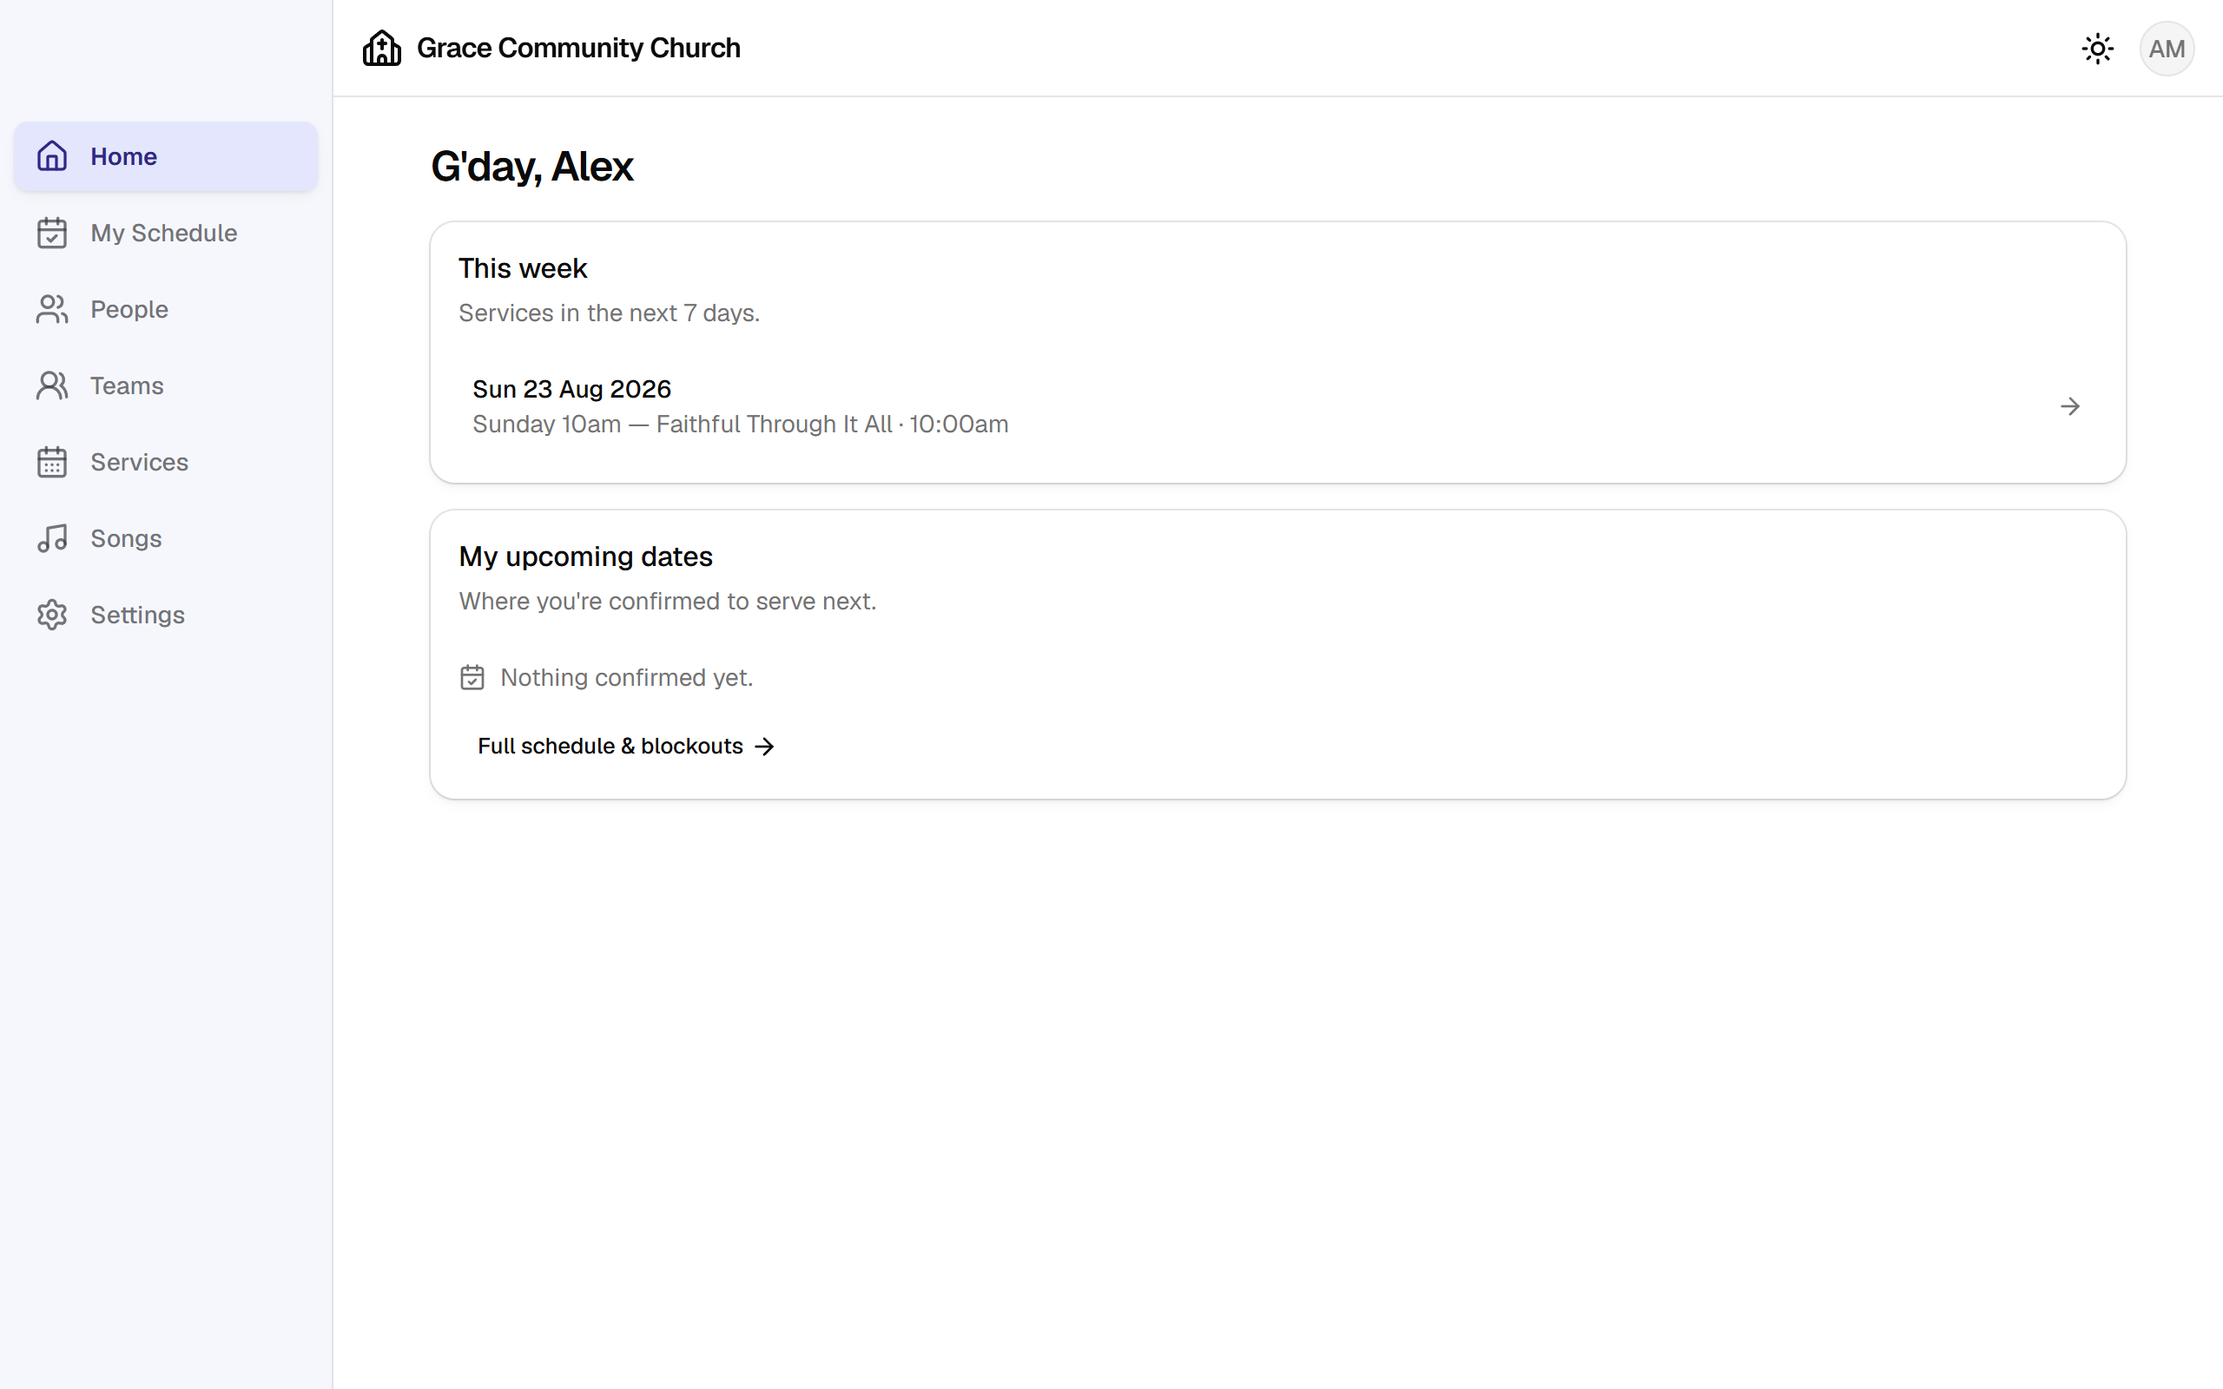
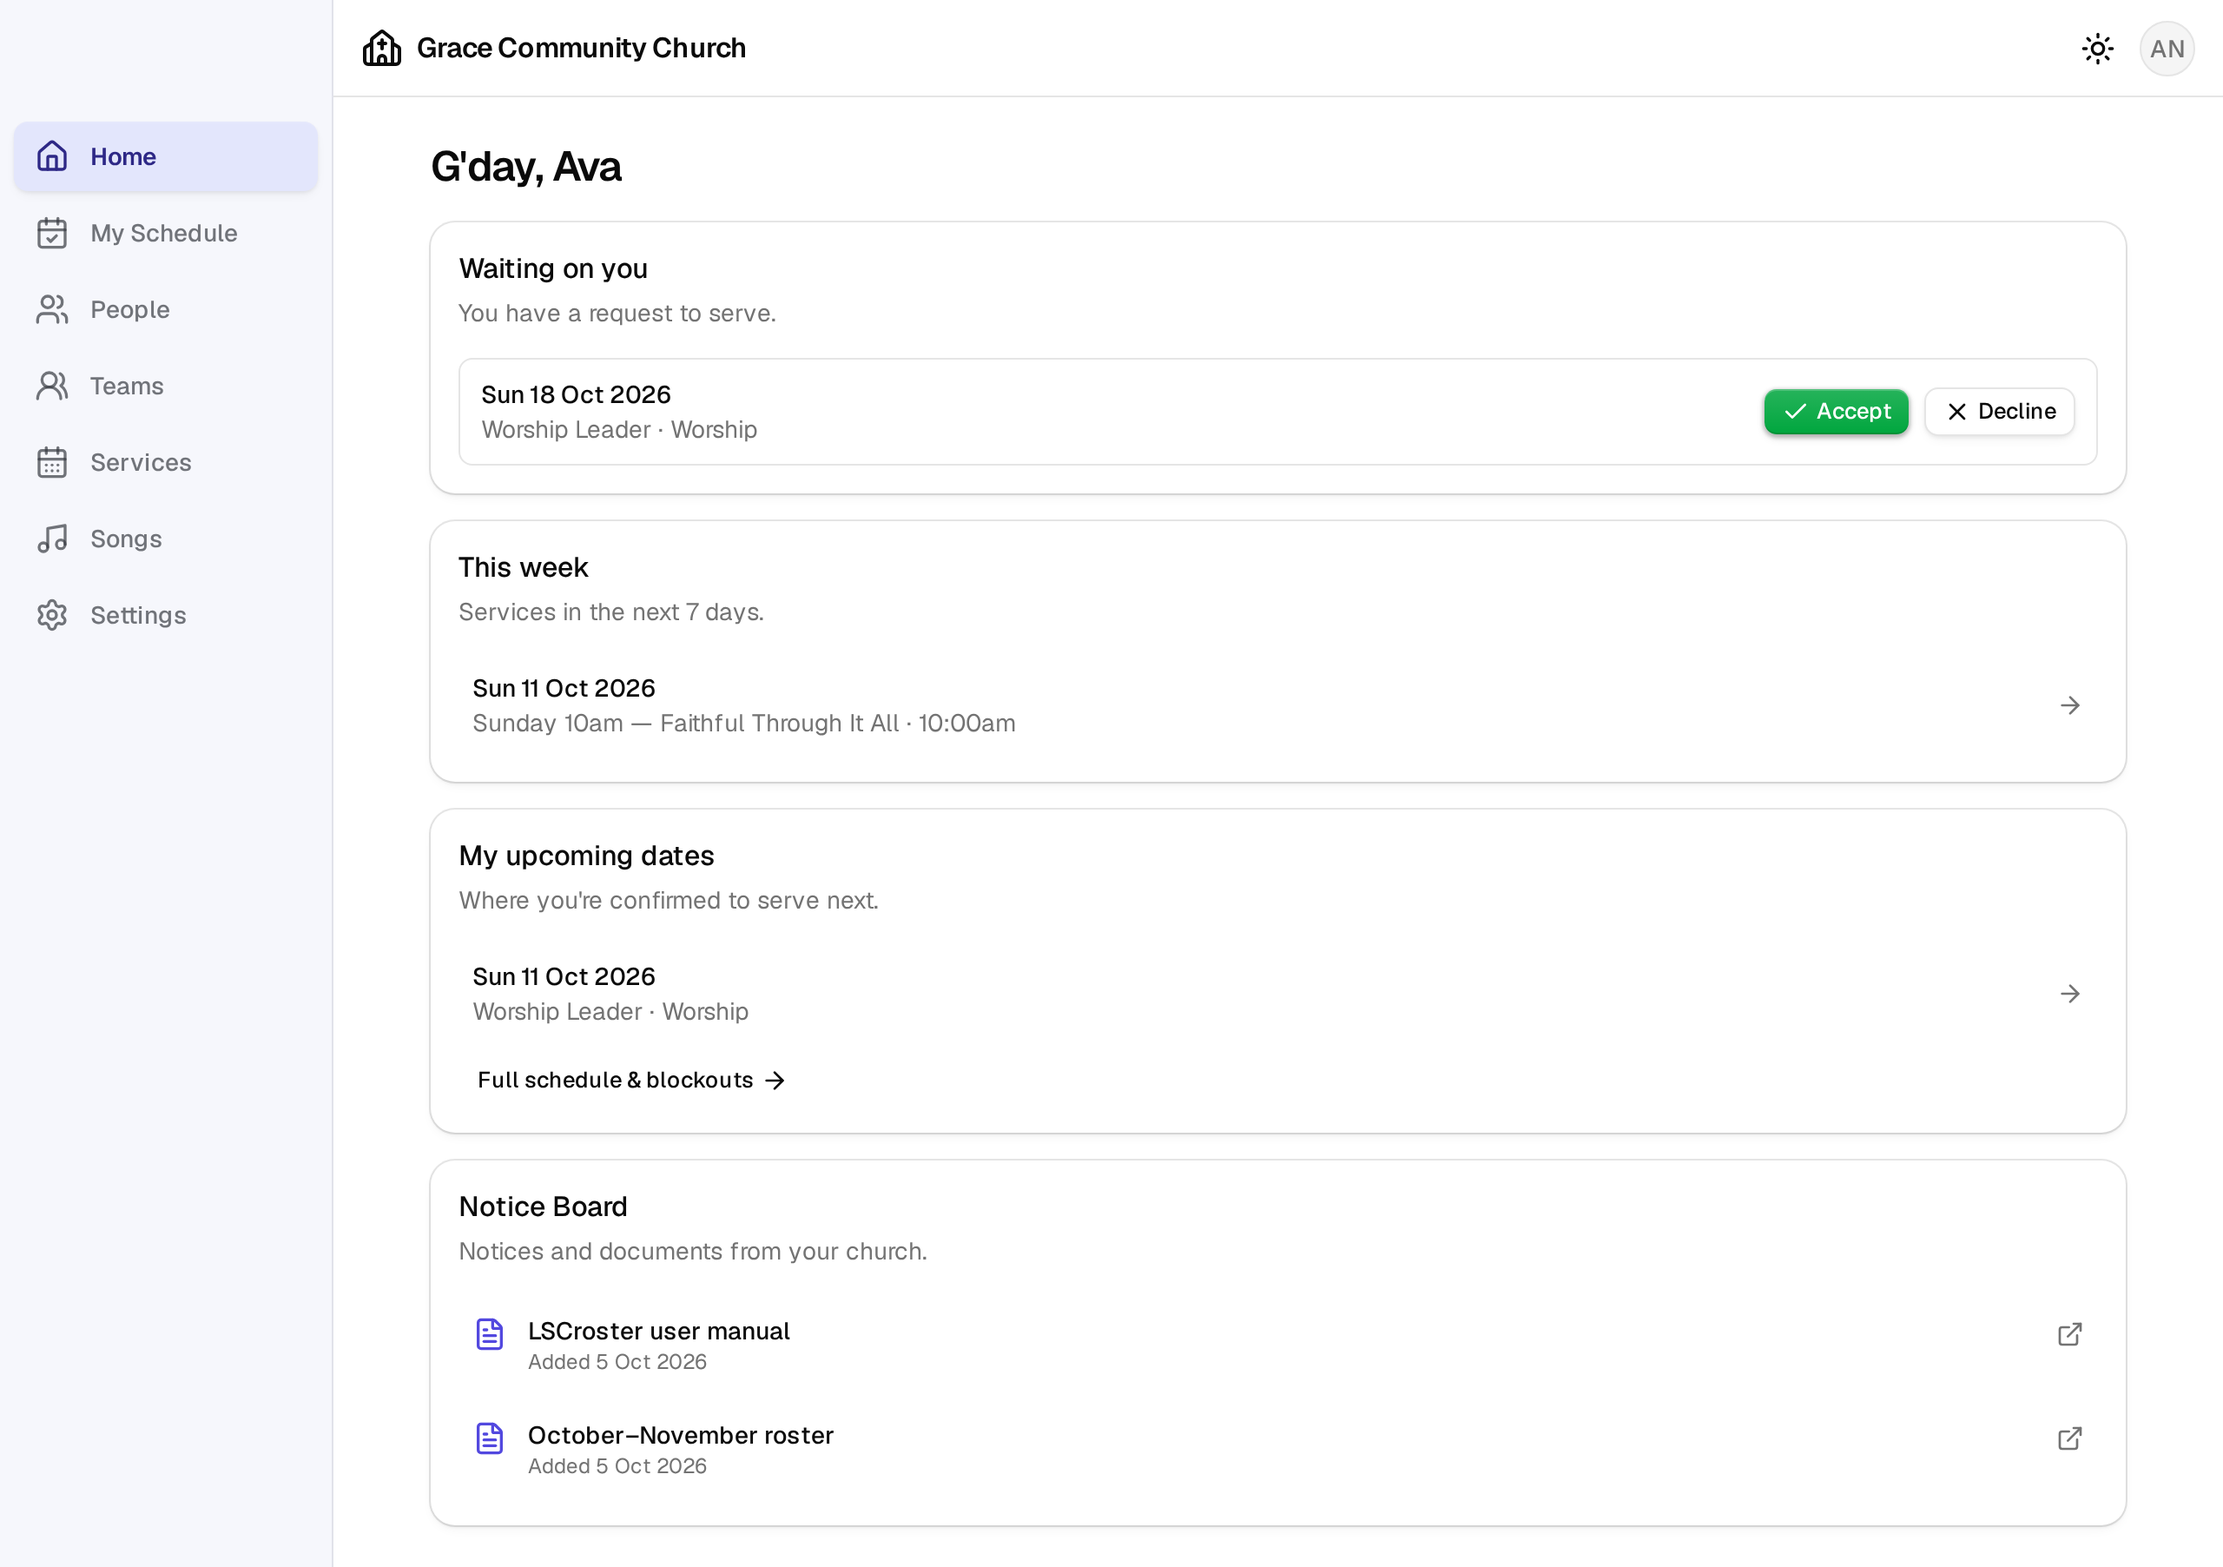
docs: screenshots for the user manual
Thirteen new figures — the invitation and sign-in pages, People and a person
page, New plan, Publish with errors, the Chord layer, a plan's People card, the
rule builder, My Schedule, Email preferences, and both notice board cards — and
Figure 4.2 re-shot with a request waiting and the notice board. All from a
throwaway local stack loaded with the demo data, so no real person appears.

Claude-Session: https://claude.ai/code/session_012VGSGcSXVBm6dh7eVzkhpe

diff --git a/docs/USER-MANUAL.md b/docs/USER-MANUAL.md
@@ -350,8 +350,11 @@ set up your account.
 > **Note** — Invitation links expire after **7 days**. If yours has expired,
 > ask an admin to press **Resend invitation** on your profile.
 
-<!-- Screenshot wanted: the invitation (set password) page at phone width —
-     docs/screenshots/manual/accept-invite-phone.png -->
+<figure>
+  <img src="screenshots/manual/accept-invite-phone.png" width="320"
+       alt="The invitation page on a phone: a welcome by name, the email filled in, and password and confirm password boxes">
+  <figcaption><em>Figure 3.1 — Accepting an invitation: choose a password and confirm it.</em></figcaption>
+</figure>
 
 ## 3.2 Signing in and setting your password
 
@@ -367,7 +370,11 @@ a reset link arrives within a minute or two; open it to choose a new password.
 with your initials at the top right → **My profile**). The **Password** card asks
 for your current password, then the new one twice, and **Change password**.
 
-<!-- Screenshot wanted: the sign-in page — docs/screenshots/manual/sign-in.png -->
+<figure>
+  <img src="screenshots/manual/sign-in.png" width="600"
+       alt="The sign-in page with the church name, email and password boxes and a Forgot password? link">
+  <figcaption><em>Figure 3.2 — The sign-in page.</em></figcaption>
+</figure>
 
 ## 3.3 Installing LSCroster on your phone
 
@@ -440,8 +447,8 @@ profile** and **Sign out**.
 
 <figure>
   <img src="screenshots/dashboard.png" width="720"
-       alt="The LSCroster home screen showing this week's plan and my upcoming dates">
-  <figcaption><em>Figure 4.2 — The home screen: this week's service and your upcoming dates.</em></figcaption>
+       alt="The home screen: a request waiting on you, this week's service, my upcoming dates and the notice board">
+  <figcaption><em>Figure 4.2 — Home: a request waiting on you, this week's service, your upcoming dates and the notice board.</em></figcaption>
 </figure>
 
 **This week** lists every service in the next seven days with its date, service
@@ -510,7 +517,11 @@ A person's status is one of:
 > coordinators see everyone's. Otherwise the person page says *Email, phone and
 > birthday are private.*
 
-<!-- Screenshot wanted: the People list — docs/screenshots/manual/people.png -->
+<figure>
+  <img src="screenshots/manual/people.png" width="720"
+       alt="The People list: search, role, status and sort filters above a table of names, emails, phones, roles and statuses">
+  <figcaption><em>Figure 5.1 — The people directory, as an admin sees it.</em></figcaption>
+</figure>
 
 ## 5.2 Viewing a person
 
@@ -537,8 +548,11 @@ this month and this year, their top positions, their current streak, and their
 The coloured bar shows their upcoming dates: red for requests not yet sent,
 yellow for sent-but-unanswered, green for confirmed.
 
-<!-- Screenshot wanted: a person page on a wide screen —
-     docs/screenshots/manual/person.png -->
+<figure>
+  <img src="screenshots/manual/person.png" width="720"
+       alt="A person page: Schedules with past and upcoming dates and an activity summary, beside Contact details, Teams, Team access and Permissions">
+  <figcaption><em>Figure 5.2 — A person's page on a wide screen.</em></figcaption>
+</figure>
 
 ## 5.3 Adding and inviting people
 
@@ -695,6 +709,11 @@ Drag service types (or use the arrows) to change their order.
    date — LSCroster creates one plan a week through to it.
 6. Press **Create plan**.
 
+<figure>
+  <img src="screenshots/manual/new-plan.png" width="440"
+       alt="The New plan dialog: service type, date, start time, title, repeat weekly until, and start from">
+  <figcaption><em>Figure 6.2 — Creating a plan.</em></figcaption>
+</figure>
 If there's already a service of that type at the same time, LSCroster asks
 before creating another.
 
@@ -780,6 +799,11 @@ If the roster breaks a scheduling rule, LSCroster shows **Publish with
 errors?** (or warnings) first. Warnings are for information. Errors need a short
 reason before you can **Publish anyway** — the reason is recorded.
 
+<figure>
+  <img src="screenshots/manual/publish-gate.png" width="500"
+       alt="The Publish with errors dialog listing understaffed positions, with a box for the reason and a Publish anyway button">
+  <figcaption><em>Figure 6.6 — Publishing a plan that breaks scheduling rules.</em></figcaption>
+</figure>
 **Unpublish** moves the plan back to draft and hides it from members again.
 
 > **Warning** — Publishing can email everyone on the plan. Check the order of
@@ -888,8 +912,11 @@ version it was published with, and future plans use the new one.
 shown section by section; toggle each layer on or off with the buttons above
 them. Your choice doesn't affect anyone else.
 
-<!-- Screenshot wanted: the song page with the Native layer open beside the
-     lyrics — docs/screenshots/manual/song-layers.png -->
+<figure>
+  <img src="screenshots/manual/song-layers.png" width="720"
+       alt="An arrangement with the Chord layer open beside the lyrics, chords in brackets over their syllables">
+  <figcaption><em>Figure 7.3 — The Chord layer open beside the lyrics. Native and Meaning open the same way.</em></figcaption>
+</figure>
 
 ## 7.4 Importing lyrics and AI help
 
@@ -983,8 +1010,11 @@ positions each member can fill, marking each as Qualified or Trainee.
 
 The suggestions and warnings in this chapter all take these into account.
 
-<!-- Screenshot wanted: a plan's People card with statuses and the ⋯ menu open —
-     docs/screenshots/manual/plan-people.png -->
+<figure>
+  <img src="screenshots/manual/plan-people.png" width="720"
+       alt="A plan's People card: positions with Pending, Confirmed, Declined and Not sent people, Understaffed warnings, and the actions menu open">
+  <figcaption><em>Figure 8.1 — Scheduling on a plan: each person's status, and the ⋯ menu for someone who declined.</em></figcaption>
+</figure>
 
 ## 8.2 Blockouts and conflicts
 
@@ -1056,6 +1086,11 @@ Build it as a sentence:
   *Preferred* (a warning only).
 - **Applies to** one service type or all of them.
 
+<figure>
+  <img src="screenshots/manual/conditional-rule.png" width="560"
+       alt="The New rule dialog: if the person in Worship Leader is female, then require at least 2 on Vocals">
+  <figcaption><em>Figure 8.4 — A conditional rule, built as a sentence.</em></figcaption>
+</figure>
 On each plan, a rule shows as a small chip: **active** (it applies), **waiting**
 (nobody in the watched position yet), **not applicable**, **can't check** (e.g.
 the person's sex isn't recorded), **muted** or **needs attention** (the rule
@@ -1117,8 +1152,11 @@ Requests for anyone you manage appear here too, marked "*for* Name".
 The same **Waiting on you** card appears at the top of Home whenever you have
 something to answer.
 
-<!-- Screenshot wanted: My Schedule on a phone —
-     docs/screenshots/manual/my-schedule-phone.png -->
+<figure>
+  <img src="screenshots/manual/my-schedule-phone.png" width="320"
+       alt="My Schedule on a phone: a request waiting with Accept and Decline, an upcoming confirmed date, and a blockout">
+  <figcaption><em>Figure 9.2 — My Schedule on a phone.</em></figcaption>
+</figure>
 
 ## 9.3 Accepting, declining and changing your answer
 
@@ -1211,6 +1249,11 @@ On your profile, the **Email preferences** card lets you switch off any of:
 | **Published plans** | The plan summary when a plan you're on is published. |
 | **Upcoming roster status** | The roster-status digest (§10.4), if you receive it. |
 
+<figure>
+  <img src="screenshots/manual/email-prefs.png" width="480"
+       alt="The Email preferences card with five ticked boxes: roster changes, response reminders, service reminders, published plans and upcoming roster status">
+  <figcaption><em>Figure 10.5 — Email preferences on your profile.</em></figcaption>
+</figure>
 Everything is on until you switch it off. Each box saves as soon as you tick it.
 Admins, coordinators and your managing member can change these for you too.
 
@@ -1503,6 +1546,11 @@ something — this manual, a new roster form, a notice for the month.
 **You should see.** *Added to the notice board*, the notice at the top of the
 list, and a **Notice Board** card on everyone's Home screen.
 
+<figure>
+  <img src="screenshots/manual/notice-board-phone.png" width="320"
+       alt="The Notice Board card on a phone with two PDFs: the user manual and a roster">
+  <figcaption><em>Figure 12.12 — The notice board as everyone sees it on Home.</em></figcaption>
+</figure>
 > **Tip** — To update a document, upload the new version, then remove the old one
 > with its **×**. A notice can't be edited in place.
 
@@ -1663,6 +1711,11 @@ beyond the usual steps.
 
 **Who:** admins and coordinators. **Where:** Settings → **Manage notice board**.
 
+<figure>
+  <img src="screenshots/manual/manage-notice-board.png" width="720"
+       alt="Settings, Manage notice board: two notices with open and remove buttons, then a description box, Choose PDF and Upload">
+  <figcaption><em>Figure 14.6 — Managing the notice board.</em></figcaption>
+</figure>
 The notice board puts PDFs on everyone's Home screen (§4.2) — this manual, forms,
 a message of the day. Each notice is a one-line **Description** and one PDF; the
 newest appears first, and the card is hidden on Home while the board is empty.
@@ -1859,8 +1912,8 @@ Where the files live — the five shots shared with README/SETUP are in
 docs/screenshots/; manual-only shots go in docs/screenshots/manual/. Follow
 docs/screenshots/README.md: shoot from a demo-data instance in light mode, 2×
 pixel ratio, so no real person appears. Name files after what they show and keep
-each under ~300 kB. The "Screenshot wanted" comments in the text list the shots
-still to take.
+each under ~300 kB. Mark a spot that needs a new shot with a "Screenshot wanted"
+comment; none are outstanding.
 
 How it renders:
 • GitHub / VS Code preview — shows the images inline; <figure> works.

diff --git a/docs/screenshots/manual/README.md b/docs/screenshots/manual/README.md
@@ -22,16 +22,27 @@ Embed in the manual with alt text, and a caption via `<figure>`:
 Re-shoot after a significant UI change, keeping the same filename so the manual
 doesn't drift from the app.
 
-The manual currently embeds the five shared shots in [../](../README.md)
-(`dashboard`, `plan`, `matrix`, `request-phone`, `settings-church`). Shots still
-wanted — each marked with a `Screenshot wanted` comment where it belongs:
+The manual also uses the five shared shots in [../](../README.md)
+(`dashboard`, `plan`, `matrix`, `request-phone`, `settings-church`). These are
+its own:
 
-| File | What it shows |
-| --- | --- |
-| `accept-invite-phone.png` | The invitation (set password) page, phone width |
-| `sign-in.png` | The sign-in page |
-| `people.png` | The People list |
-| `person.png` | A person page on a wide screen |
-| `song-layers.png` | A song with the Native layer open beside the lyrics |
-| `plan-people.png` | A plan's People card with statuses and the ⋯ menu open |
-| `my-schedule-phone.png` | My Schedule, phone width |
+| File | Figure | What it shows |
+| --- | --- | --- |
+| `accept-invite-phone.png` | 3.1 | The invitation (set password) page, phone width |
+| `sign-in.png` | 3.2 | The sign-in page |
+| `people.png` | 5.1 | The People list, as an admin |
+| `person.png` | 5.2 | A person page on a wide screen |
+| `new-plan.png` | 6.2 | The New plan dialog |
+| `publish-gate.png` | 6.6 | "Publish with errors?" |
+| `song-layers.png` | 7.3 | An arrangement with the Chord layer open beside the lyrics |
+| `plan-people.png` | 8.1 | A plan's People card, every status, the ⋯ menu open |
+| `conditional-rule.png` | 8.4 | The conditional rule builder |
+| `my-schedule-phone.png` | 9.2 | My Schedule, phone width |
+| `email-prefs.png` | 10.5 | The Email preferences card |
+| `notice-board-phone.png` | 12.12 | The Notice Board card on Home, phone width |
+| `manage-notice-board.png` | 14.6 | Settings → Manage notice board |
+
+Shot on 2026-10-05 from a throwaway local stack (its own project id and ports, so
+it never touches the everyday local database) loaded with `demo-data.sql`, plus a
+few extras for the shots: an admin login, a draft roster showing every status, a
+blockout, chords on Amazing Grace, an unaccepted invitation and two notices.

diff --git a/PHASES.md b/PHASES.md
@@ -931,9 +931,13 @@ and rendering to PDF/HTML (Pandoc or a CSS file). Screenshots live in
   **Upgrade note:** an instance with its own projection client must expect
   `unauthorised`; `functions deploy projection-api reminders` before the push.
 - [ ] The user's review of the draft.
-- [ ] Capture the shots marked `Screenshot wanted` in the file (sign-in,
-  invitation, People list, person page, song layers, plan People card, My
-  Schedule on a phone) into `docs/screenshots/manual/`.
+- [x] **Screenshots** (2026-10-05): 13 new figures in `docs/screenshots/manual/`
+  (the seven marked shots plus New plan, Publish with errors, the rule builder,
+  Email preferences and both notice board cards) and `dashboard.png` re-shot with
+  the notice board, all from a throwaway demo stack — see
+  `docs/screenshots/manual/README.md`. The Email preferences and Communications
+  setup text no longer say "Team Leaders, Team Viewers" (pre-0048 wording); the
+  digest goes to everyone with team access, and admins.
 - [x] **Branded PDF** (2026-10-04): `npm run manual:pdf`
   (`scripts/build-manual-pdf.mjs`) renders the Markdown with `marked` and prints
   it with headless Chromium (`playwright-core`, devDependencies only — the app

diff --git a/docs/screenshots/README.md b/docs/screenshots/README.md
@@ -5,7 +5,7 @@ Images used by [README.md](../../README.md), [SETUP.md](../SETUP.md) and the
 
 | File | What it shows |
 | --- | --- |
-| `dashboard.png` | Home — "This week" and "My upcoming dates" |
+| `dashboard.png` | Home — a request waiting, "This week", "My upcoming dates" and the Notice Board |
 | `plan.png` | A published plan: order of service with the running clock |
 | `matrix.png` | Services → Matrix, three services side by side |
 | `request-phone.png` | The `/respond/<token>` page at phone width |
